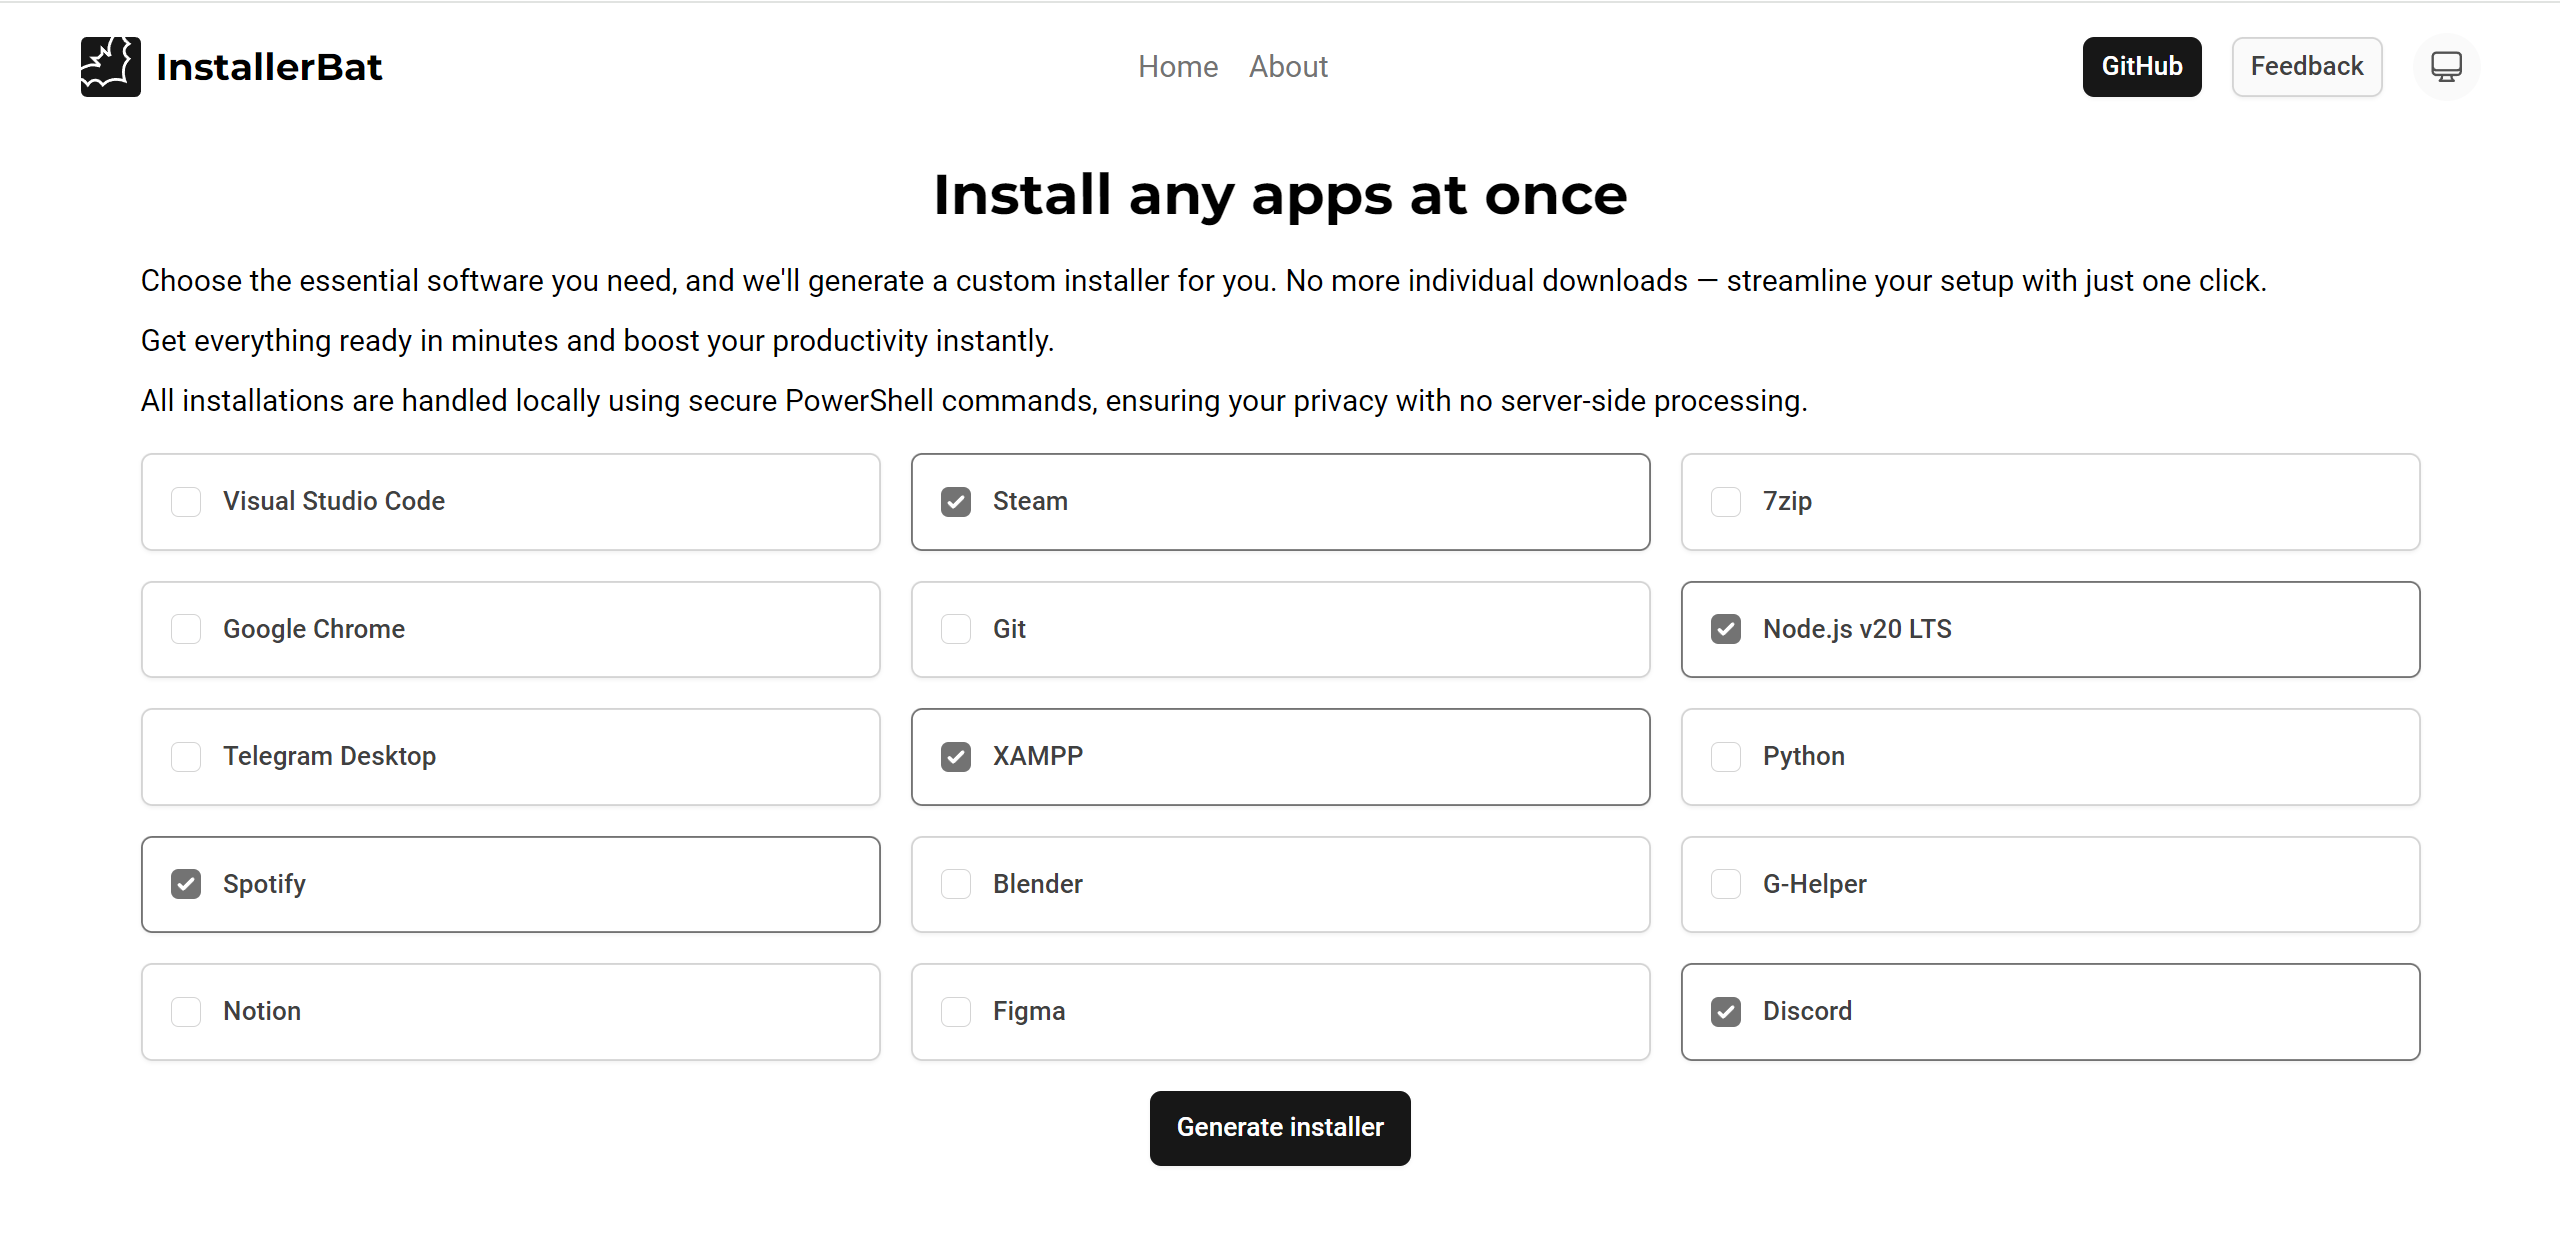
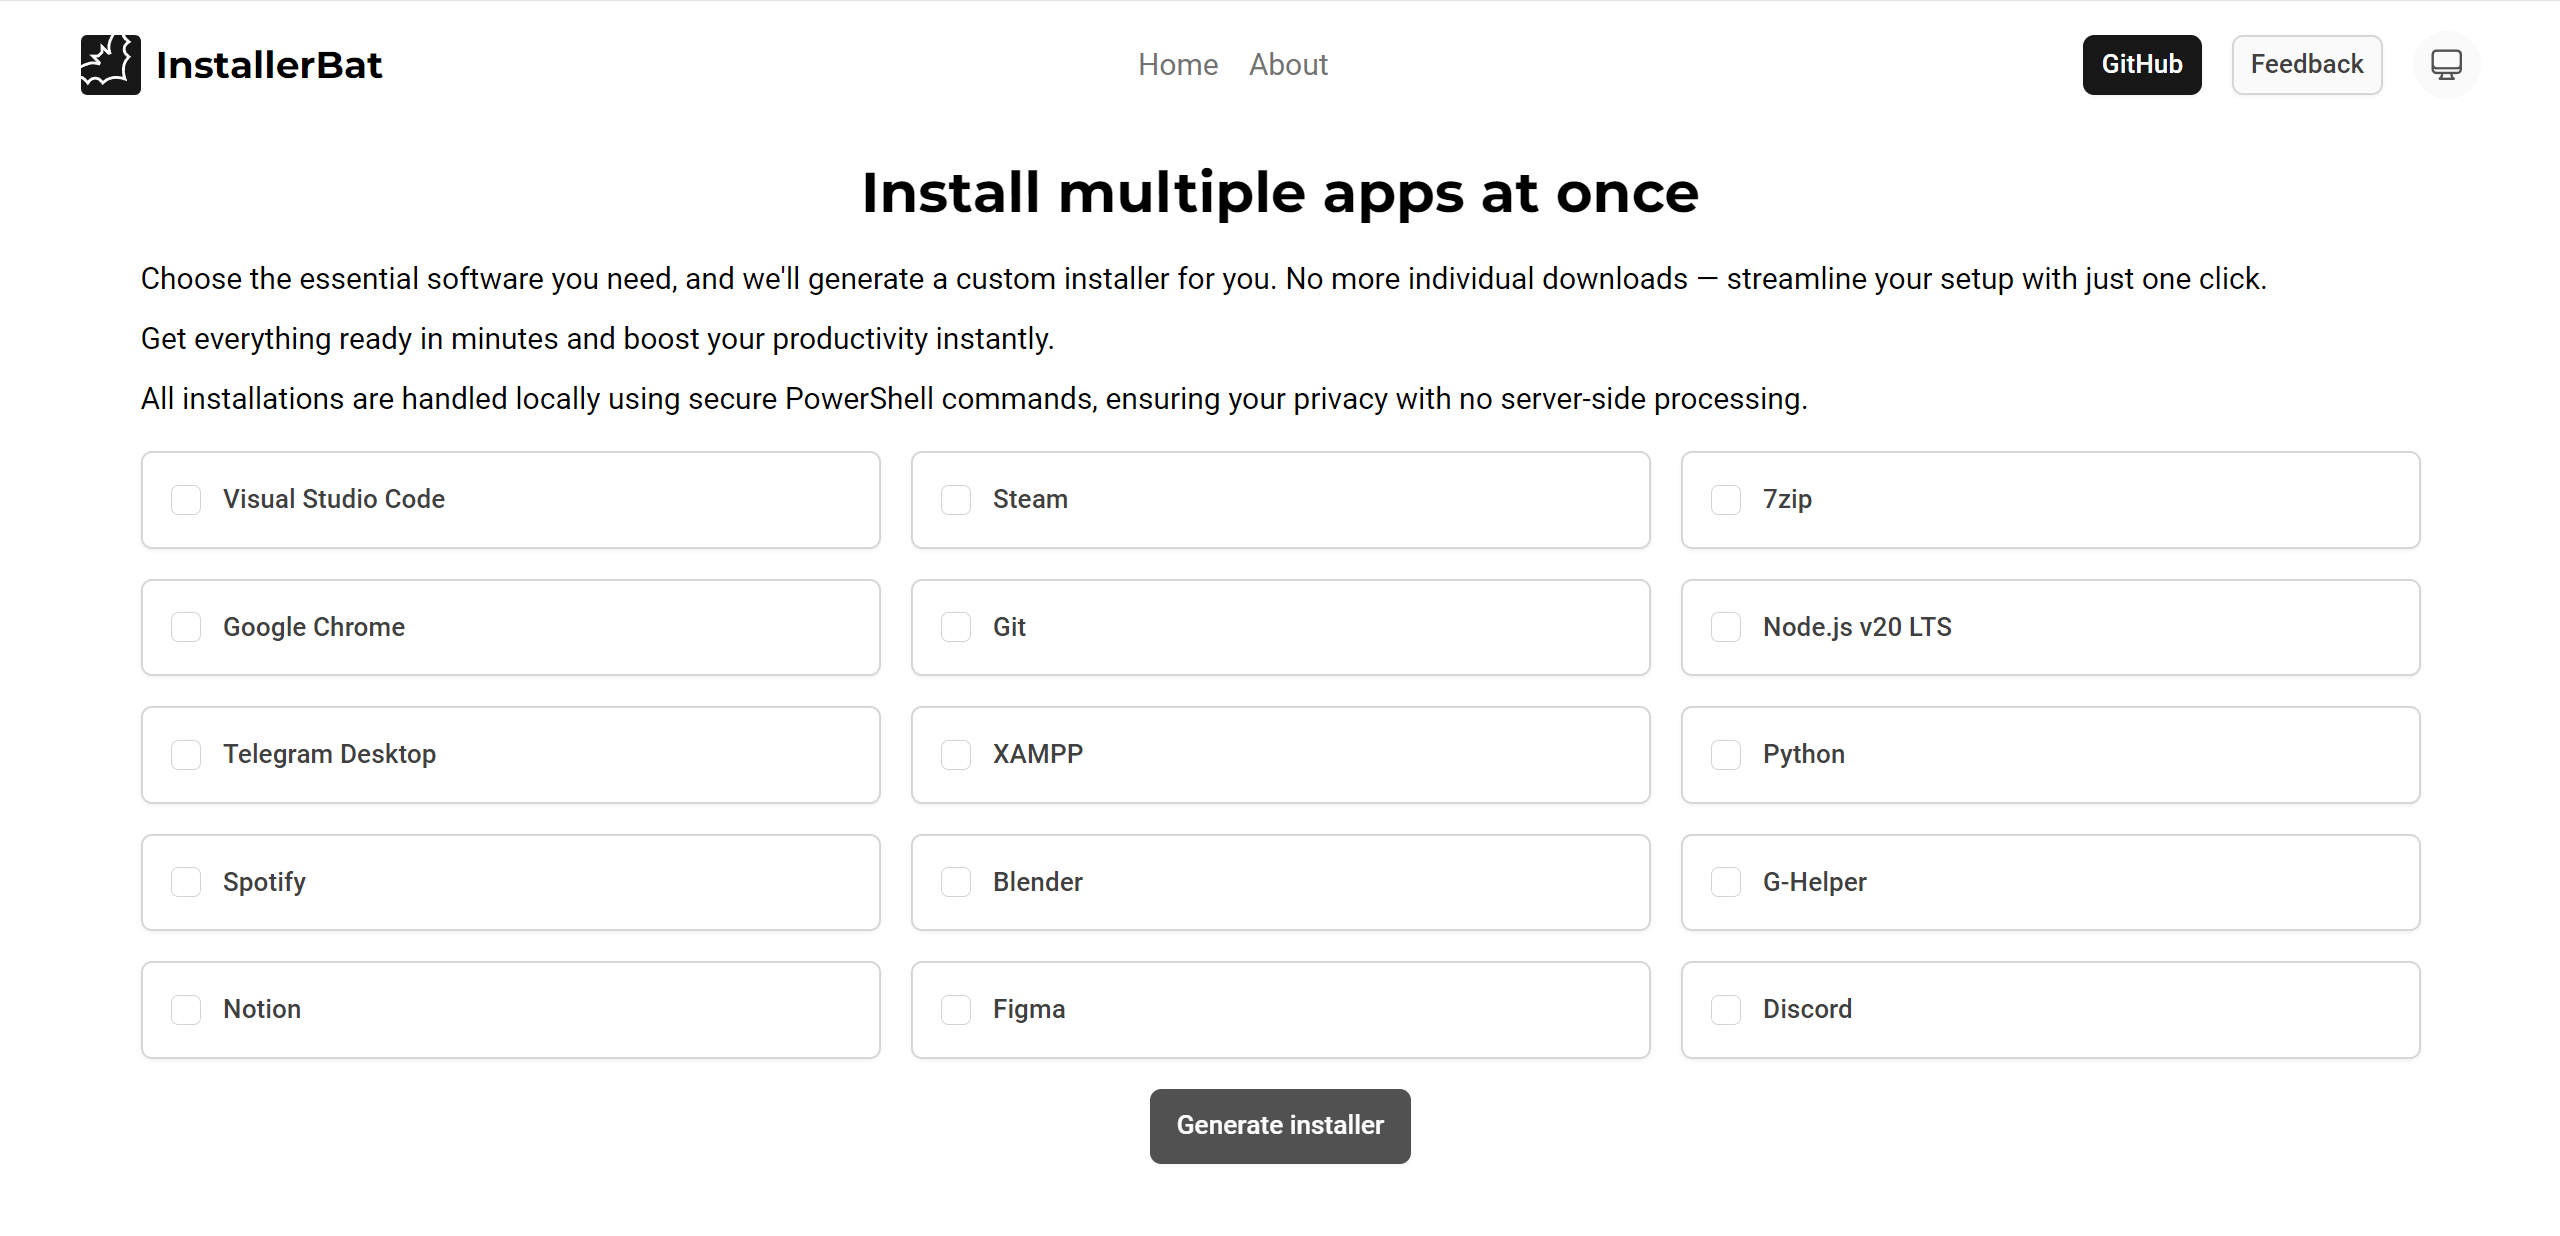
small changes

diff --git a/pages/index.vue b/pages/index.vue
@@ -81,7 +81,7 @@ const generateInstaller = async (selectedPrograms) => {
 <template>
   <div>
     <h1 class="font-bold text-2xl text-center my-4 md:text-3xl">
-      Install any apps at once
+      Install multiple apps at once
     </h1>
     <p class="mb-2">
       Choose the essential software you need, and we'll generate a custom installer for
